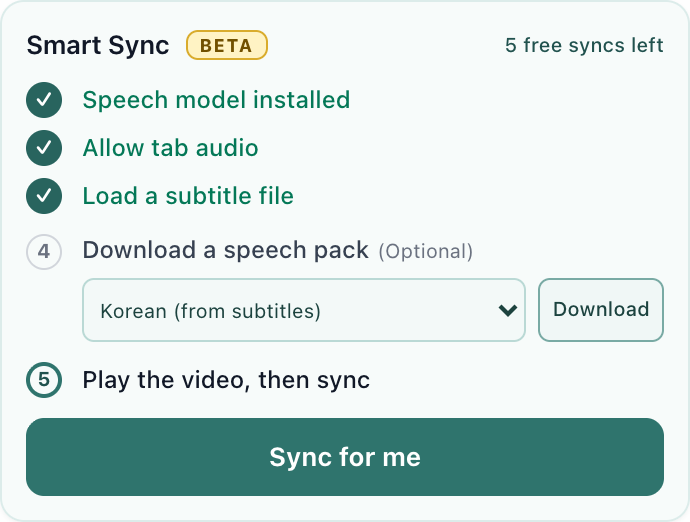
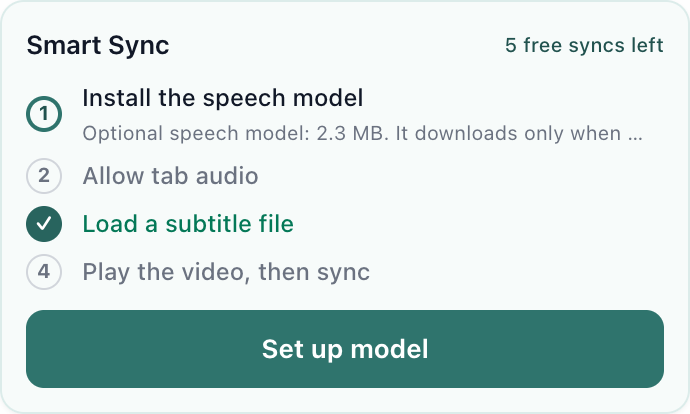
Remove Beta labels from Subtitle Overlay promotional artwork

diff --git a/branding/subtitle-overlay-1.7/store-shots/slide3.html b/branding/subtitle-overlay-1.7/store-shots/slide3.html
@@ -26,17 +26,17 @@
       <span class="stamp">[00:03]</span>
       <h1>Find the right timing.</h1>
     </div>
-    <p class="sub">Start Smart Sync Beta during dialogue to find a timing adjustment.
+    <p class="sub">Start Smart Sync during dialogue to find a timing adjustment.
     Try 5 applied syncs free, with Undo. Use the timeline for finer control.</p>
 
     <div class="keys">
-      <span class="cue-chip">Optional speech pack for faster matching</span>
+      <span class="cue-chip">On-device audio matching</span>
       <span class="cue-chip">Audio stays on your device</span>
       <span class="cue-chip"><span class="key">&lt;</span><span class="key">&gt;</span> fine-tune timing yourself</span>
     </div>
 
     <div class="frame shot">
-      <img src="../screenshots/smart-sync-setup.png" alt="Smart Sync Beta with an optional speech language pack">
+      <img src="../screenshots/smart-sync-setup.png" alt="Smart Sync controls in the current extension">
     </div>
 
     <div class="brandmark" style="right: 560px;"><span class="dot"></span>Subtitle Overlay</div>

diff --git a/branding/subtitle-overlay-1.7/store-shots/slide6-roadmap.html b/branding/subtitle-overlay-1.7/store-shots/slide6-roadmap.html
@@ -161,7 +161,7 @@
 
     <div class="head">
       <div class="title">The Pro <span class="g">roadmap</span></div>
-      <div class="tagline">Smart Sync Beta today. Future features as they ship.</div>
+      <div class="tagline">Smart Sync today. Future features as they ship.</div>
     </div>
 
     <div class="track">
@@ -169,7 +169,7 @@
         <div class="node now"></div>
         <div class="card lead">
           <div class="emoji">✨</div>
-          <div><span class="stage-chip live">AVAILABLE (BETA)</span></div>
+          <div><span class="stage-chip live">AVAILABLE</span></div>
           <div class="cname">Smart Sync <span class="flag">FLAGSHIP</span></div>
           <div class="cdesc">Start it during dialogue to find a timing adjustment. Try 5 applied syncs free, with Undo.</div>
         </div>

diff --git a/branding/subtitle-overlay-1.7/store-shots/marquee.html b/branding/subtitle-overlay-1.7/store-shots/marquee.html
@@ -66,10 +66,10 @@
     <img class="icon" src="../brand/icon_512.png" alt="">
     <div class="copy">
       <h1>Your subtitles. <em>Better timing.</em></h1>
-      <p>Load your subtitle file, then start Smart Sync Beta to find a timing adjustment.
+      <p>Load your subtitle file, then start Smart Sync to find a timing adjustment.
       Try 5 applied syncs free. Audio stays on your device.</p>
       <div class="chips">
-        <span class="chip">SMART SYNC BETA</span>
+        <span class="chip">SMART SYNC</span>
         <span class="chip ghost">SRT · VTT · SMI · ASS</span>
         <span class="chip ghost">9 LANGUAGES</span>
       </div>

diff --git a/branding/subtitle-overlay-1.7/README.md b/branding/subtitle-overlay-1.7/README.md
@@ -1,17 +1,32 @@
 # Subtitle Overlay 1.7 promotional artwork
 
-Editable HTML/CSS, original icon vectors and the final CWS/Gumroad PNGs.
-The extension lives in a separate repository. To regenerate, build and verify
-that release, run `playwright test e2e/soda-setup-ui.spec.ts` there, and start its
-`node e2e/server.mjs` fixture server. Then run this directory's
+Editable HTML/CSS, original icon vectors and rendered CWS/Gumroad PNGs.
+
+## Regenerate
+
+Build the desired release in the separate extension repository, then start its
+`node e2e/server.mjs` fixture server. Run this directory's
 `scripts/capture-store-shots.mjs` with `SUBTITLE_OVERLAY_EXTENSION_DIR` set to
-the absolute extension checkout path.
+the absolute extension checkout path. Playwright comes from that checkout.
+The script uses a disposable E2E copy of the release (localhost fixture access,
+analytics disabled), dismisses first-run setup in the capture profile, captures
+the current popup/Smart Sync card, then renders the original HTML at the store sizes.
+Do not reuse the obsolete SODA/Beta setup screenshot or visual-test baselines.
+The screenshots illustrate controls, not measured speech accuracy.
 
-The speech-pack setup image uses the real release UI with controlled service
-states from the browser layout test. It illustrates setup, not speech accuracy
-or a successful pack download. Native Chrome English/Korean download was
-verified separately. All current store artwork uses the plated icon; the
-extension toolbar uses the plain mark.
+## 2026-10-11 correction
 
-The Gumroad text is a release draft and retains the existing founding offer
-and September 30, 2026 refund promise. Future features are marked planned.
+Removed Beta from `slide3.html`, `slide6-roadmap.html`, and `marquee.html`.
+Re-captured the current v1.7.6 popup to remove the Pro/Smart Sync Beta badges
+embedded in the old PNGs. Updated the corresponding generated assets.
+Earlybird now uses the corrected roadmap and slides 2–4, preserving the two
+videos, gallery order, slides 1/5, thumbnail, copy, and offer settings.
+The CWS dashboard already held the newer Beta-free launch set (five shared
+screenshots and both promo tiles); saved its draft without review submission.
+The newer CWS/Membership set lives in `promotional/launch-2026-09-29` in the
+adjacent Subtitle Overlay workspace. Do not replace it with this older five-slide
+sequence merely because this sequence was regenerated for Earlybird.
+
+Local backup and browser proof:
+`subtitle overlay/strategy/smart-sync-beta-removal-2026-10-11/`.
+The adjacent `gumroad-product-page.md` is historical copy, not today's live listing.
